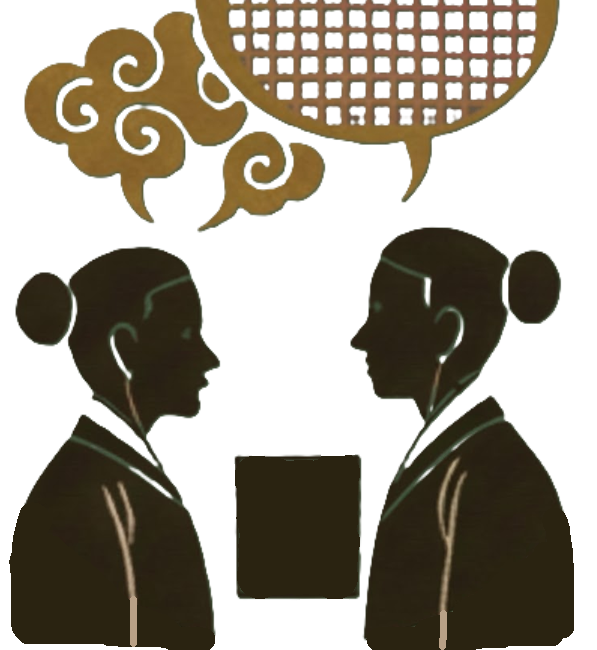
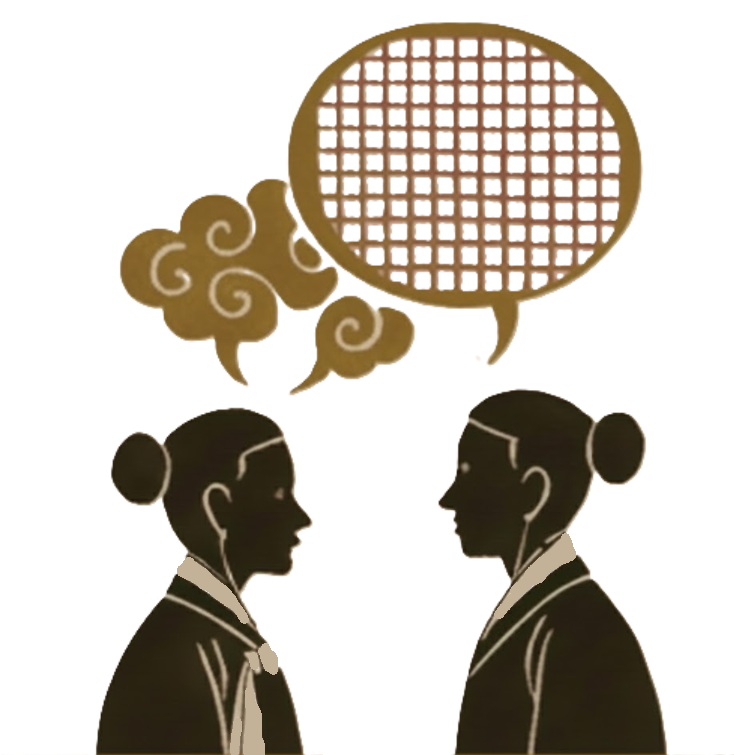
api 최적화

diff --git a/src/features/sidebar-menu/ui/SidebarMenu.css b/src/features/sidebar-menu/ui/SidebarMenu.css
@@ -166,13 +166,17 @@
     bottom: 2px;
     left: 50%;
     transform: translateX(-50%);
-    color: #f9f7f1;
-    font-size: 30px;
+    color: #496b6e;
+    font-size: 20px;
     font-weight: 900;
-    font-family: 'NanumHaNaSonGeurSsi';
-    text-shadow: 2px 2px 4px rgba(0, 0, 0, 0.5);
+    /* text-shadow: 2px 2px 4px rgba(0, 0, 0, 0.5); */
+    /* 기존 검은 그림자 제거 */
+    text-shadow: 0 0 5px #ffffff, 0 0 10px #ffffff, 0 0 15px #ffffff;
+    /* 진한 흰색 그림자 (Glow 효과) */
     pointer-events: none;
     white-space: nowrap;
+    -webkit-text-stroke: 1px #ffffff;
+    paint-order: stroke fill;
 }
 
 /* People item specific styles */
@@ -182,16 +186,11 @@
 
 .menu-item-zone.people-item .menu-icon {
     width: 110px;
-    height: 110px;
+    height: 100px;
 }
 
 .menu-item-zone.people-item .menu-overlay-text {
-    position: absolute;
     bottom: -2px;
-    left: 50%;
-    transform: translateX(-50%);
-    color: #f9f7f1;
-    text-shadow: 2px 2px 4px rgba(0, 0, 0, 0.5);
 }
 
 /* Discussion item specific styles */

diff --git a/vite.config.ts b/vite.config.ts
@@ -10,15 +10,6 @@ export default defineConfig(({ mode }) => {
     plugins: [react()],
     server: {
       proxy: {
-        // WebSocket → Java 백엔드 (8080) - 사용자 가이드에 따른 경로
-        '/api/ai/ws-stomp': {
-          target: 'http://localhost:8080',
-          changeOrigin: true,
-          secure: false,
-          ws: true,
-          // 백엔드가 /api/ai/ws-stomp 경로를 그대로 사용하는 것으로 추정 (예시에 따름)
-          rewrite: (path) => path
-        },
         // AI 관련 요청 → Python 백엔드 (8000)
         '/api/ai/': {
           target: 'http://localhost:8000',

diff --git a/src/shared/lib/useStomp.ts b/src/shared/lib/useStomp.ts
@@ -350,7 +350,7 @@ export const useDiscussion = (roomId: string | undefined) => {
 
     // 4. WebSocket Integration
     const { connect, disconnect, subscribe, sendMessage, isConnected, lastError } = useStomp({
-        url: `/api/ai/ws-stomp`,
+        url: `/api/ws-stomp`,
         onConnect: () => {
             console.log('🔗 onConnect callback triggered, roomId:', roomId);
             if (!roomId) return;
